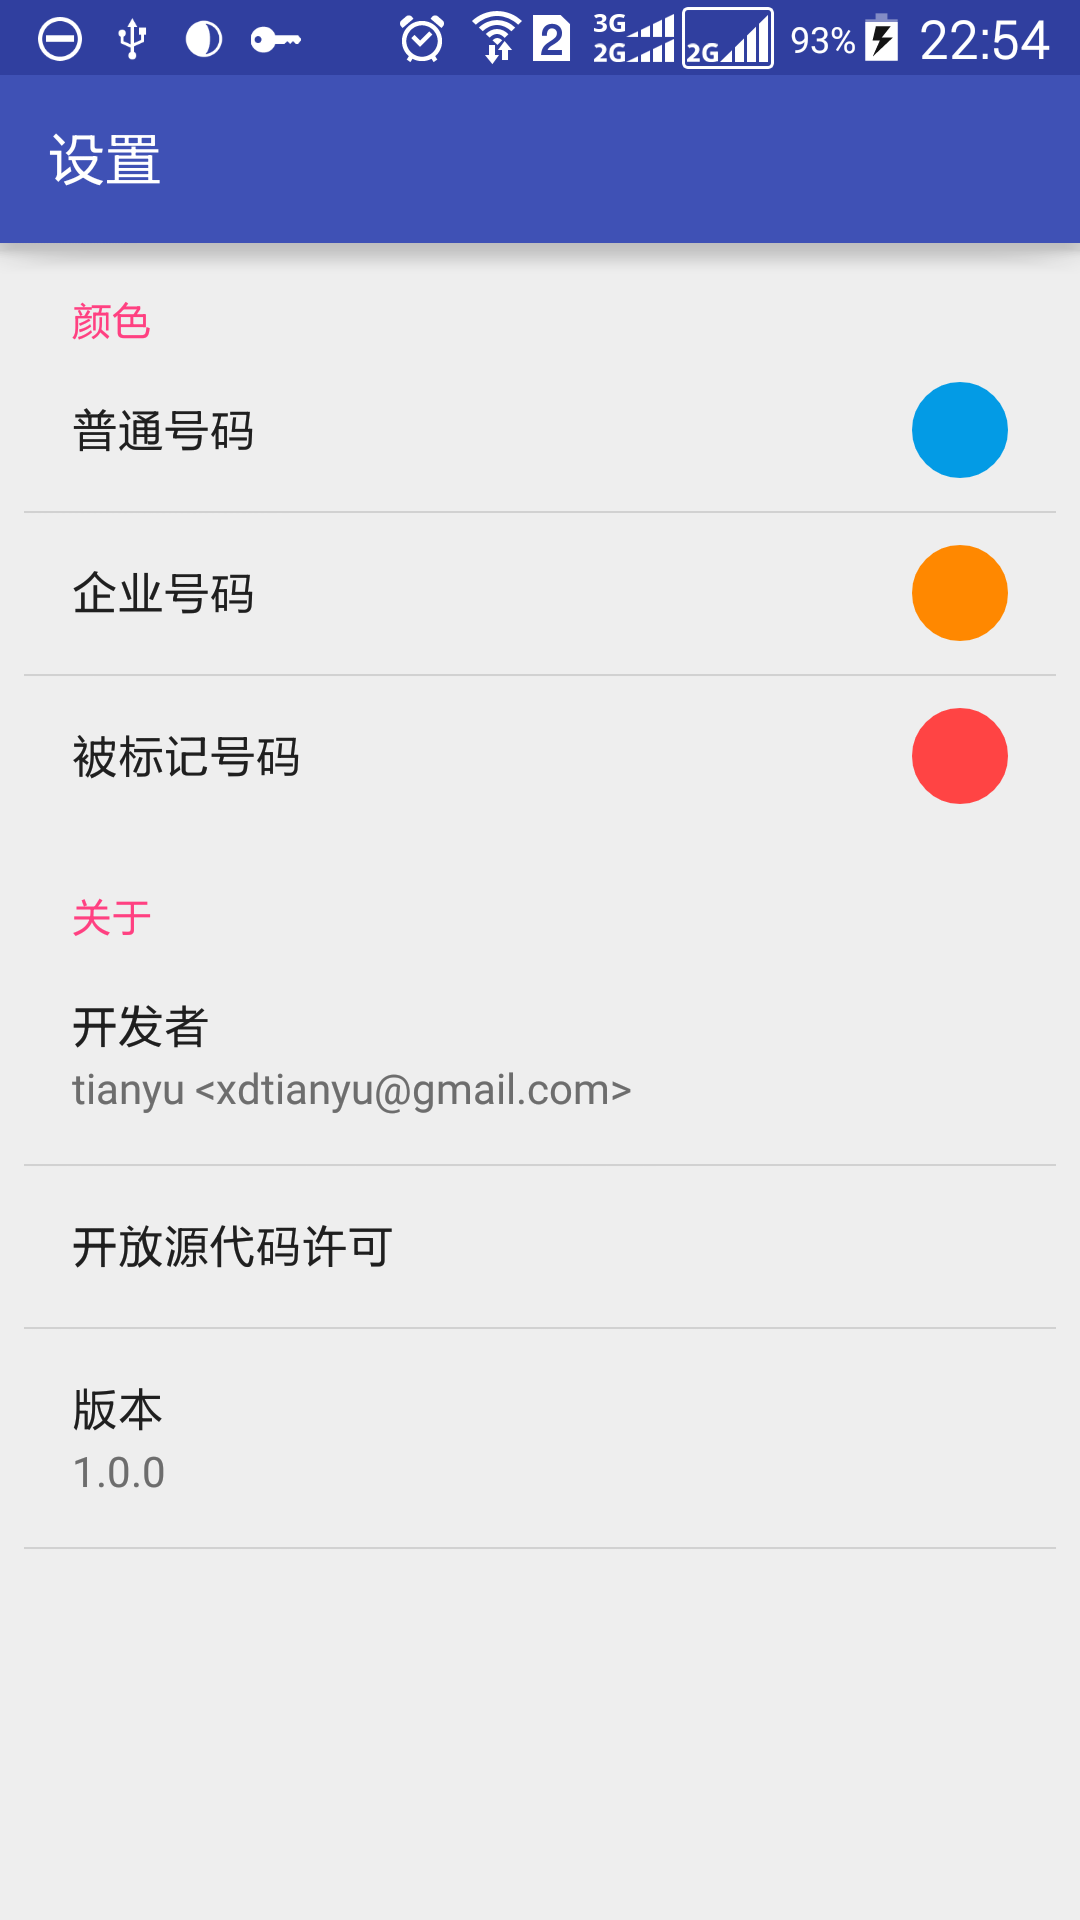
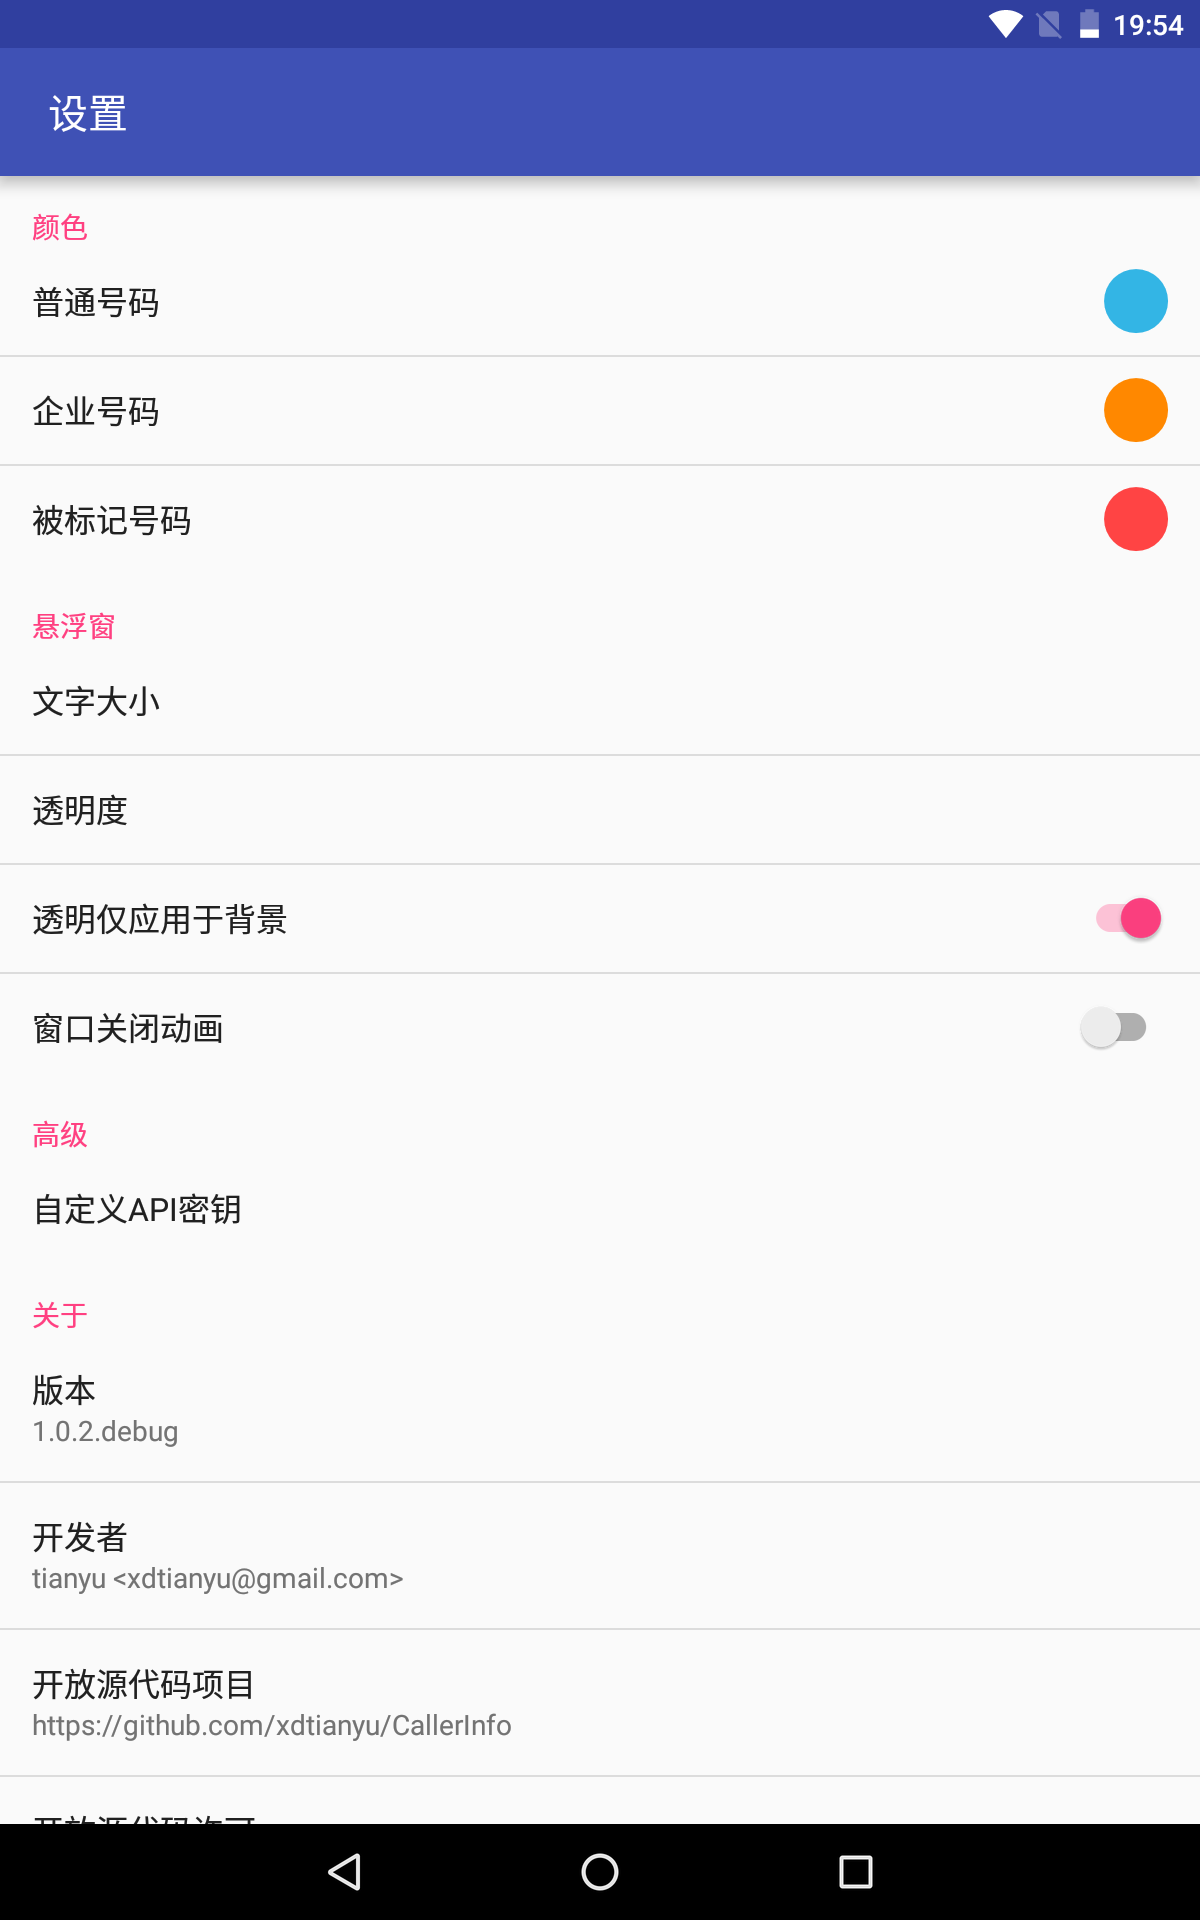
update readme

diff --git a/README.md b/README.md
@@ -3,6 +3,8 @@ An android app to get phone number location and other info. [中文](https://git
 
 [![Build Status](https://travis-ci.org/xdtianyu/CallerInfo.svg?branch=master)](https://travis-ci.org/xdtianyu/CallerInfo)
 
+[![Download (github release)](https://img.shields.io/github/downloads/xdtianyu/CallerInfo/v1.1.0/total.svg)](https://github.com/xdtianyu/CallerInfo/releases/download/v1.1.0/callerinfo-v1.1.0-release.apk)
+
 [![Download (github release)](https://img.shields.io/github/downloads/xdtianyu/CallerInfo/v1.0.2/total.svg)](https://github.com/xdtianyu/CallerInfo/releases/download/v1.0.2/callerinfo-v1.0.2-release.apk)
 
 [![Download (github release)](https://img.shields.io/github/downloads/xdtianyu/CallerInfo/v1.0.1/total.svg)](https://github.com/xdtianyu/CallerInfo/releases/download/v1.0.1/callerinfo-v1.0.1-release.apk)
@@ -21,6 +23,8 @@ An android app to get phone number location and other info. [中文](https://git
 4\. Setting colors of cards and float window.
 
 5\. Custom API key.
+
+6\. Custom float window, e.g. text size, transparent.
 
 ##Contributors
 [tianyu](https://www.xdty.org)

diff --git a/README-CN.md b/README-CN.md
@@ -3,6 +3,8 @@
 
 [![Build Status](https://travis-ci.org/xdtianyu/CallerInfo.svg?branch=master)](https://travis-ci.org/xdtianyu/CallerInfo)
 
+[![下载地址 (github release)](https://img.shields.io/github/downloads/xdtianyu/CallerInfo/v1.1.0/total.svg)](https://github.com/xdtianyu/CallerInfo/releases/download/v1.1.0/callerinfo-v1.1.0-release.apk)
+
 [![下载地址 (github release)](https://img.shields.io/github/downloads/xdtianyu/CallerInfo/v1.0.2/total.svg)](https://github.com/xdtianyu/CallerInfo/releases/download/v1.0.2/callerinfo-v1.0.2-release.apk)
 
 [![下载地址 (github release)](https://img.shields.io/github/downloads/xdtianyu/CallerInfo/v1.0.1/total.svg)](https://github.com/xdtianyu/CallerInfo/releases/download/v1.0.1/callerinfo-v1.0.1-release.apk)
@@ -20,6 +22,8 @@
 4\. 在设置界面可以自定义设置卡片及悬浮窗的颜色。
 
 5\. 自定义 API 密钥。
+
+6\. 自定义悬浮窗, 如文字大小、透明度。
 
 ##贡献者
 [tianyu](https://www.xdty.org)
